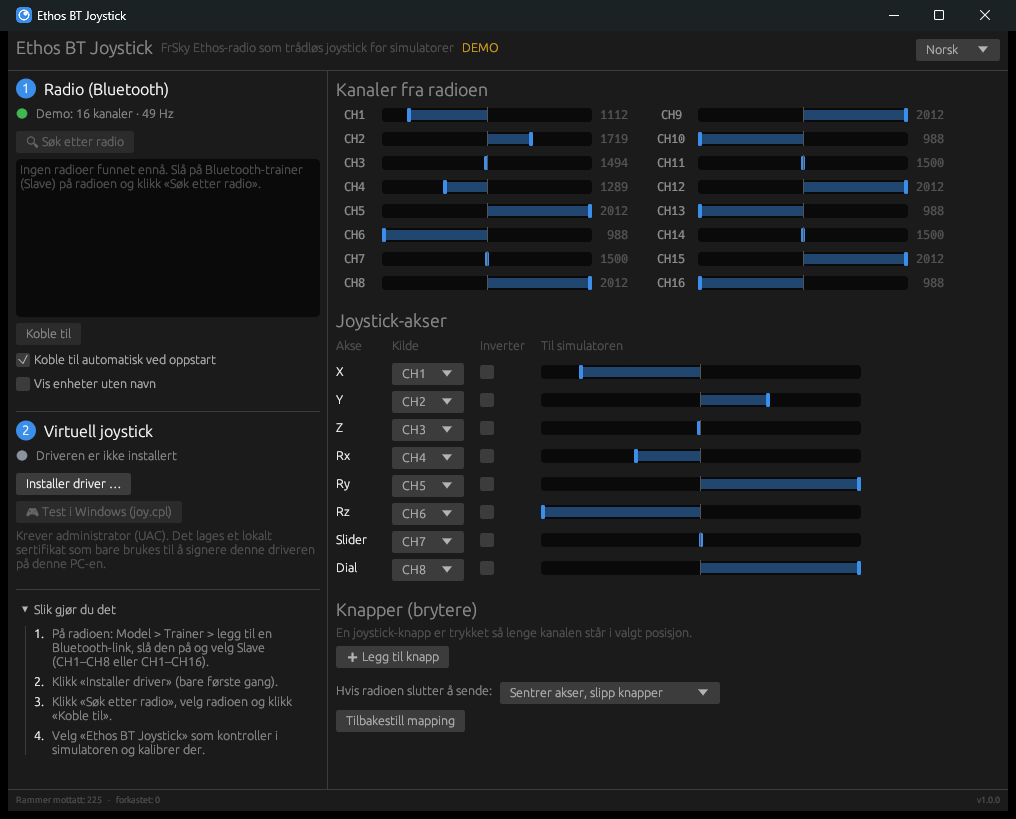
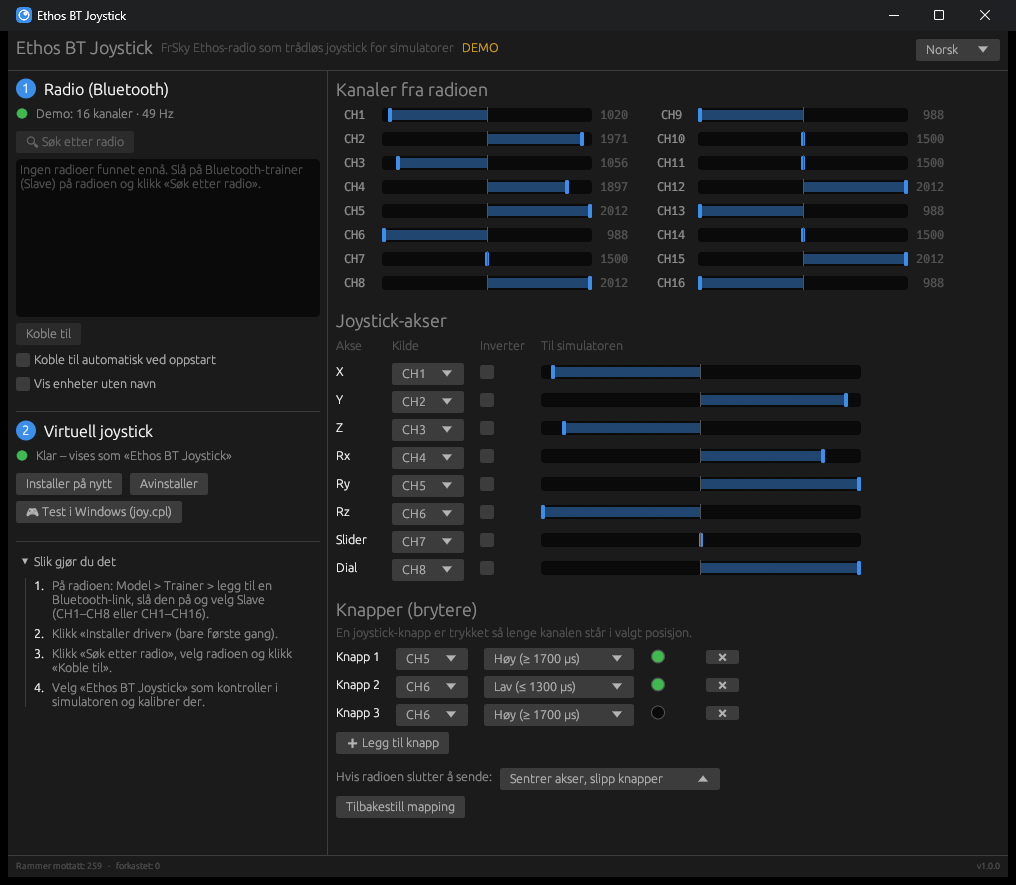
Docs: English screenshot, refreshed Norwegian screenshot
Both screenshots now show the same demo state with the driver installed
and three switch buttons mapped. README.md uses the English one.

diff --git a/README.md b/README.md
@@ -13,9 +13,7 @@ Everything is in **a single exe file**. Neither vJoy nor any other third-party d
 is used: the virtual joystick is a small driver of its own that is embedded in the exe
 and installed with one click.
 
-![Screenshot](docs/skjermbilde.png)
-
-*The screenshot shows the Norwegian interface. The app is also available in English.*
+![Screenshot](docs/screenshot.png)
 
 ## Getting started
 
